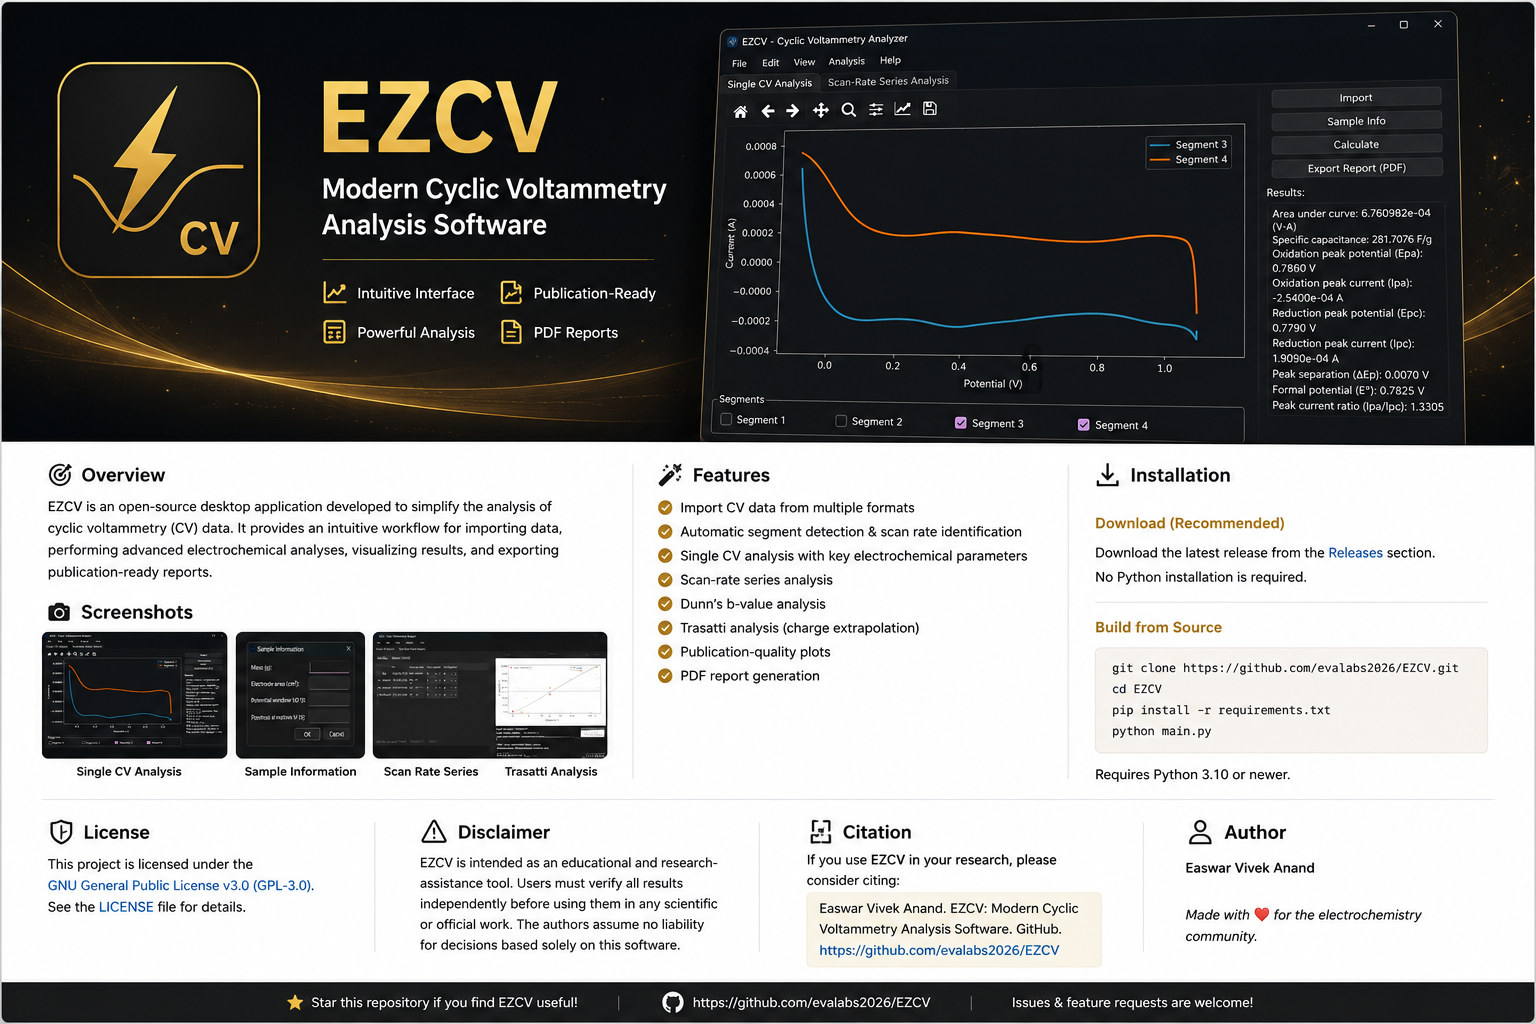
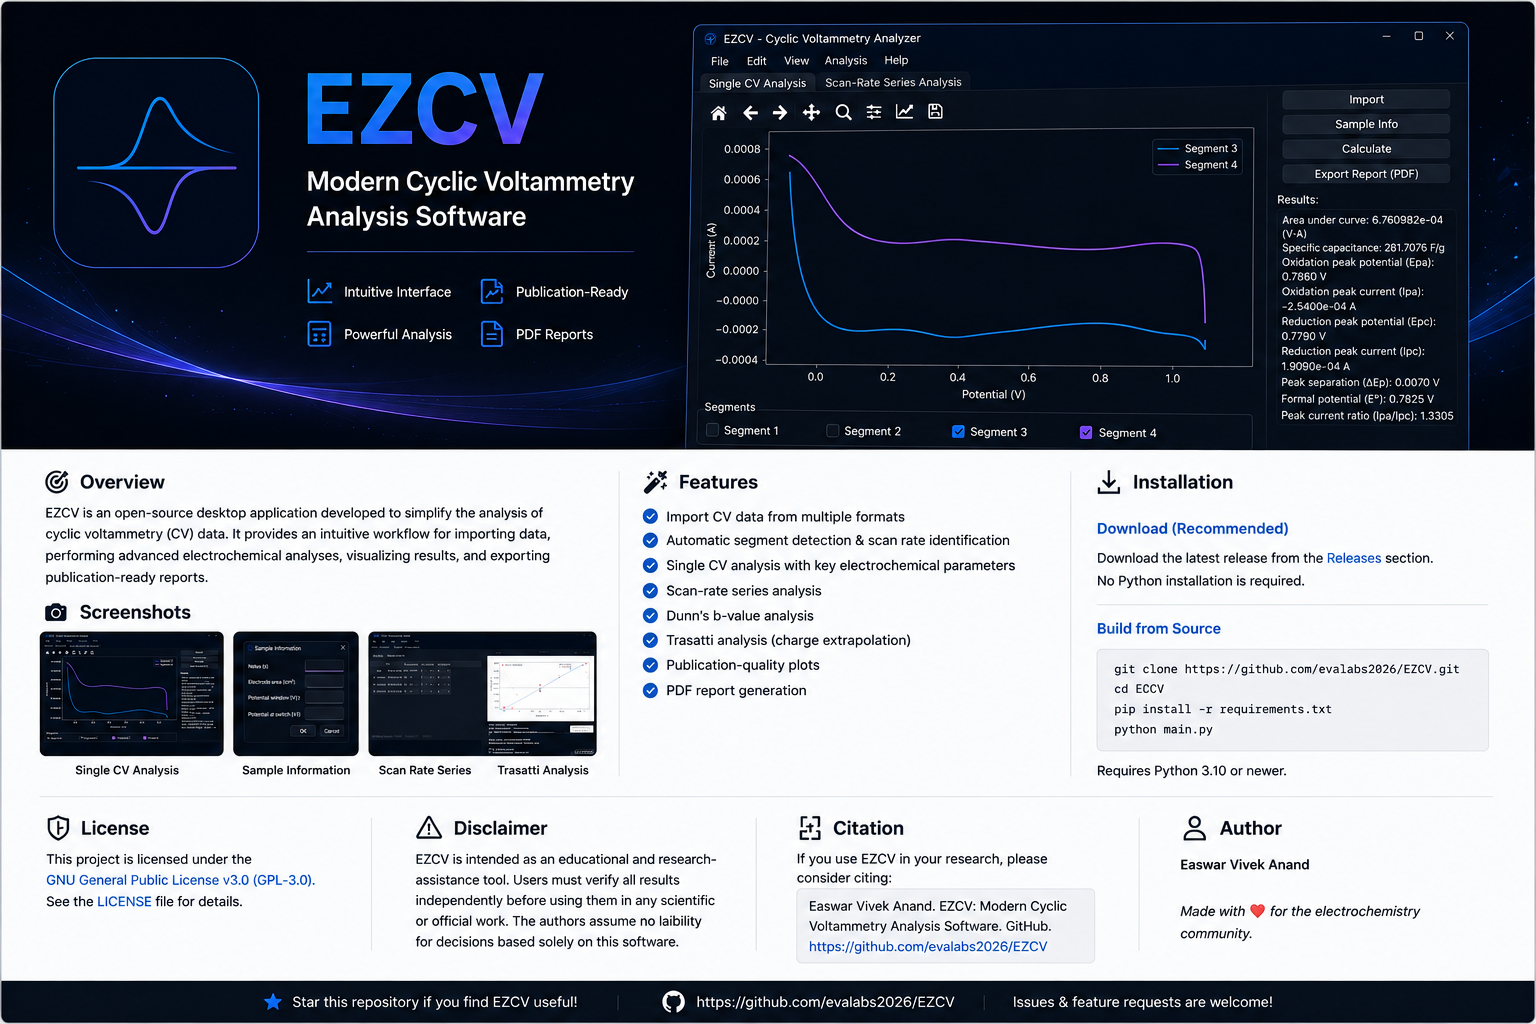
Improve segment selection UI and bug fixes

diff --git a/gui/single_analysis_tab.py b/gui/single_analysis_tab.py
@@ -6,11 +6,11 @@ calculate, and results. Lives as one persistent tab so its state (loaded
 file, segment selection, results) never disappears when switching to the
 scan-rate series tab.
 """
-
 from PySide6.QtWidgets import (
     QWidget, QVBoxLayout, QHBoxLayout, QPushButton, QLabel, QCheckBox,
     QGroupBox, QFormLayout, QLineEdit, QDialog, QDialogButtonBox,
-    QMessageBox, QTextEdit, QFileDialog
+    QMessageBox, QTextEdit, QFileDialog,
+    QComboBox
 )
 from matplotlib.backends.backend_qtagg import FigureCanvasQTAgg, NavigationToolbar2QT
 from matplotlib.figure import Figure
@@ -116,7 +116,8 @@ class SingleAnalysisTab(QWidget):
         self.cv_data = None
         self.sample_info = {}
         self.results = {}
-        self.segment_checkboxes = {}
+        self.start_segment_combo = None
+        self.end_segment_combo = None
         self._last_imported_filename = None
 
         main_layout = QHBoxLayout(self)
@@ -133,9 +134,29 @@ class SingleAnalysisTab(QWidget):
         self._show_empty_placeholder()
 
         self.segment_box = QGroupBox("Segments")
-        self.segment_layout = QHBoxLayout()
-        self.segment_box.setLayout(self.segment_layout)
+
+        segment_layout = QHBoxLayout()
+
+        segment_layout.addWidget(QLabel("Start Segment"))
+
+        self.start_segment_combo = QComboBox()
+        self.start_segment_combo.currentIndexChanged.connect(self._plot)
+        segment_layout.addWidget(self.start_segment_combo)
+
+        segment_layout.addSpacing(15)
+
+        segment_layout.addWidget(QLabel("End Segment"))
+
+        self.end_segment_combo = QComboBox()
+        self.end_segment_combo.currentIndexChanged.connect(self._plot)
+        segment_layout.addWidget(self.end_segment_combo)
+
+        segment_layout.addStretch()
+
+        self.segment_box.setLayout(segment_layout)
         left_panel.addWidget(self.segment_box)
+
+        
 
         main_layout.addLayout(left_panel, stretch=3)
 
@@ -203,21 +224,42 @@ class SingleAnalysisTab(QWidget):
             self._plot()
 
     def _build_segment_checkboxes(self):
-        for cb in self.segment_checkboxes.values():
-            cb.setParent(None)
-        self.segment_checkboxes = {}
+        self.start_segment_combo.blockSignals(True)
+        self.end_segment_combo.blockSignals(True)
+
+        self.start_segment_combo.clear()
+        self.end_segment_combo.clear()
 
         segments = sorted(self.cv_data.df["segment"].unique())
+
         for seg in segments:
-            cb = QCheckBox(f"Segment {seg}")
-            cb.setChecked(True)
-            cb.stateChanged.connect(self._plot)
-            self.segment_layout.addWidget(cb)
-            self.segment_checkboxes[seg] = cb
+            self.start_segment_combo.addItem(str(seg), seg)
+            self.end_segment_combo.addItem(str(seg), seg)
+
+        if len(segments) >= 2:
+            self.start_segment_combo.setCurrentIndex(len(segments) - 2)
+            self.end_segment_combo.setCurrentIndex(len(segments) - 1)
+        elif len(segments) == 1:
+            self.start_segment_combo.setCurrentIndex(0)
+            self.end_segment_combo.setCurrentIndex(0)
+
+        self.start_segment_combo.blockSignals(False)
+        self.end_segment_combo.blockSignals(False)
 
     def _selected_segments_df(self):
-        selected = [seg for seg, cb in self.segment_checkboxes.items() if cb.isChecked()]
-        return self.cv_data.df[self.cv_data.df["segment"].isin(selected)]
+        start_seg = self.start_segment_combo.currentData()
+        end_seg = self.end_segment_combo.currentData()
+
+        if start_seg is None or end_seg is None:
+            return self.cv_data.df.iloc[0:0]
+
+        if start_seg > end_seg:
+            start_seg, end_seg = end_seg, start_seg
+
+        return self.cv_data.df[
+        (self.cv_data.df["segment"] >= start_seg) &
+        (self.cv_data.df["segment"] <= end_seg)
+    ]
 
     def _plot(self):
         if self.cv_data is None:
@@ -285,8 +327,7 @@ class SingleAnalysisTab(QWidget):
                 peak_result = peaks.analyze_peaks(df)
                 if not peak_result.peaks_detected:
                     self.results["Peak analysis"] = (
-                        "No distinct redox peak detected - this curve may be "
-                        "capacitive/EDLC-like rather than showing sharp faradaic peaks."
+                        "No distinct redox peak detected "
                     )
                 else:
                     if "epa" in selected:
@@ -339,9 +380,8 @@ class SingleAnalysisTab(QWidget):
         self.cv_data = None
         self.sample_info = {}
         self.results = {}
-        for cb in self.segment_checkboxes.values():
-            cb.setParent(None)
-        self.segment_checkboxes = {}
+        self.start_segment_combo.clear()
+        self.end_segment_combo.clear()
         self.sample_info_btn.setEnabled(False)
         self.calculate_btn.setEnabled(False)
         self.export_btn.setEnabled(False)
@@ -375,7 +415,13 @@ class SingleAnalysisTab(QWidget):
                 "high_e": getattr(meta, "high_e", None),
                 "low_e": getattr(meta, "low_e", None),
             }
-            selected_segments = sorted(seg for seg, cb in self.segment_checkboxes.items() if cb.isChecked())
+            selected_segments = list(
+            range(
+                self.start_segment_combo.currentData(),
+                self.end_segment_combo.currentData() + 1
+                 )
+            )
+
             filename = getattr(self, "_last_imported_filename", "CV data file")
 
             single_report.build_single_report(
@@ -395,7 +441,10 @@ class SingleAnalysisTab(QWidget):
     # --- Save/load project support ---
 
     def get_state(self):
-        selected_segments = [seg for seg, cb in self.segment_checkboxes.items() if cb.isChecked()]
+        selected_segments = [
+            self.start_segment_combo.currentData(),
+            self.end_segment_combo.currentData(),
+            ]
         return {
             "cv_data": self.cv_data,
             "selected_segments": selected_segments,
@@ -412,11 +461,20 @@ class SingleAnalysisTab(QWidget):
             self.sample_info_btn.setEnabled(True)
             self.calculate_btn.setEnabled(True)
             self._build_segment_checkboxes()
-            restored = set(state.get("selected_segments", []))
-            if restored:
-                for seg, cb in self.segment_checkboxes.items():
-                    cb.setChecked(seg in restored)
-            self._plot()
+            selected_segments = state.get("selected_segments", [])
+
+            if selected_segments:
+                start_seg = min(selected_segments)
+                end_seg = max(selected_segments)
+
+                start_index = self.start_segment_combo.findData(start_seg)
+                end_index = self.end_segment_combo.findData(end_seg)
+
+            if start_index != -1:
+                self.start_segment_combo.setCurrentIndex(start_index)
+
+            if end_index != -1:
+                self.end_segment_combo.setCurrentIndex(end_index)
 
         self._render_results()
         self.export_btn.setEnabled(bool(self.results))

diff --git a/gui/main_window.py b/gui/main_window.py
@@ -16,7 +16,7 @@ import pickle
 from gui.single_analysis_tab import SingleAnalysisTab
 from gui.scan_series_panel import ScanSeriesPanel
 
-APP_VERSION = "0.3.0"
+APP_VERSION = "1.0.0"
 
 
 class FindDialog(QDialog):
@@ -277,7 +277,8 @@ class MainWindow(QMainWindow):
             f"An open-source tool for importing, plotting, and analyzing "
             f"cyclic voltammetry data, including multi-scan-rate kinetics "
             f"analysis (Dunn's b-value, Trasatti).<br><br>"
-            f"Licensed under the GNU General Public License v3.0."
+            f"Licensed under the GNU General Public License v3.0..<br><br>"
+            f"contact; [email redacted]"
         )
 
     def _save_project(self):